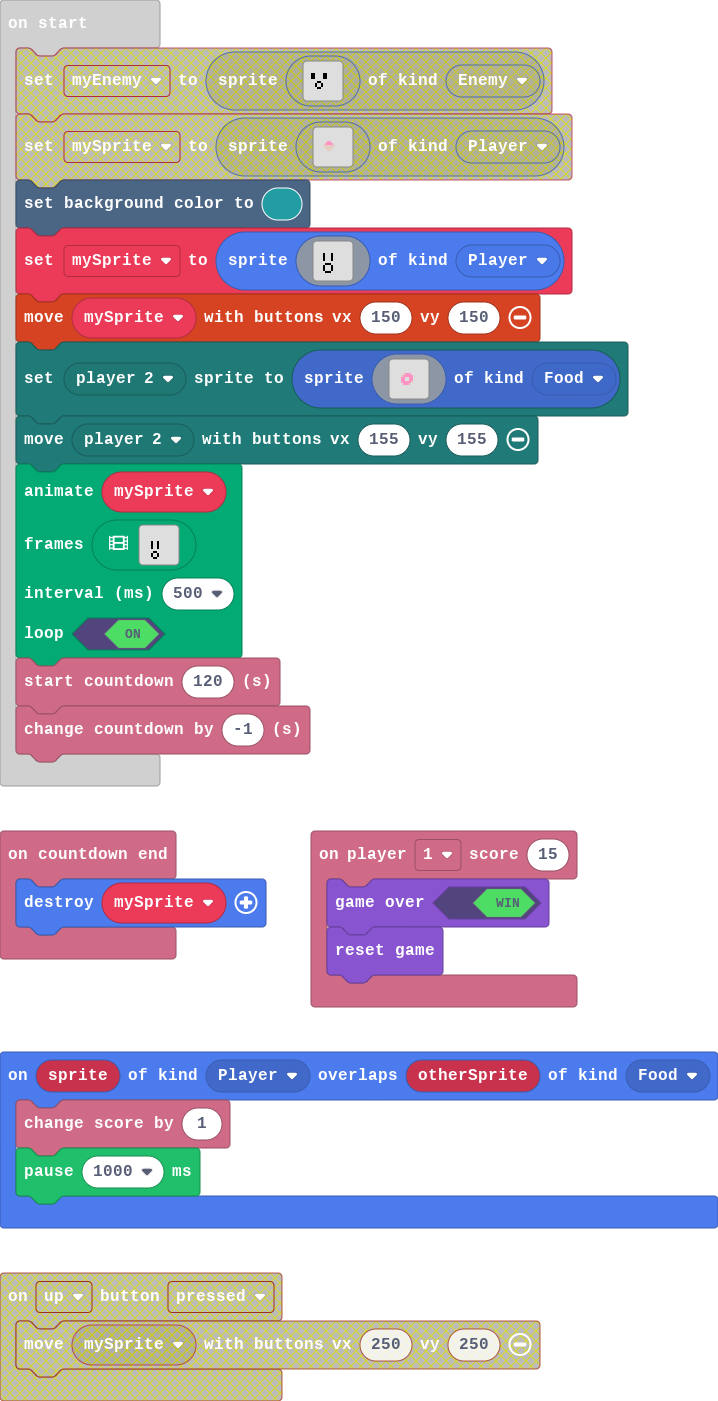
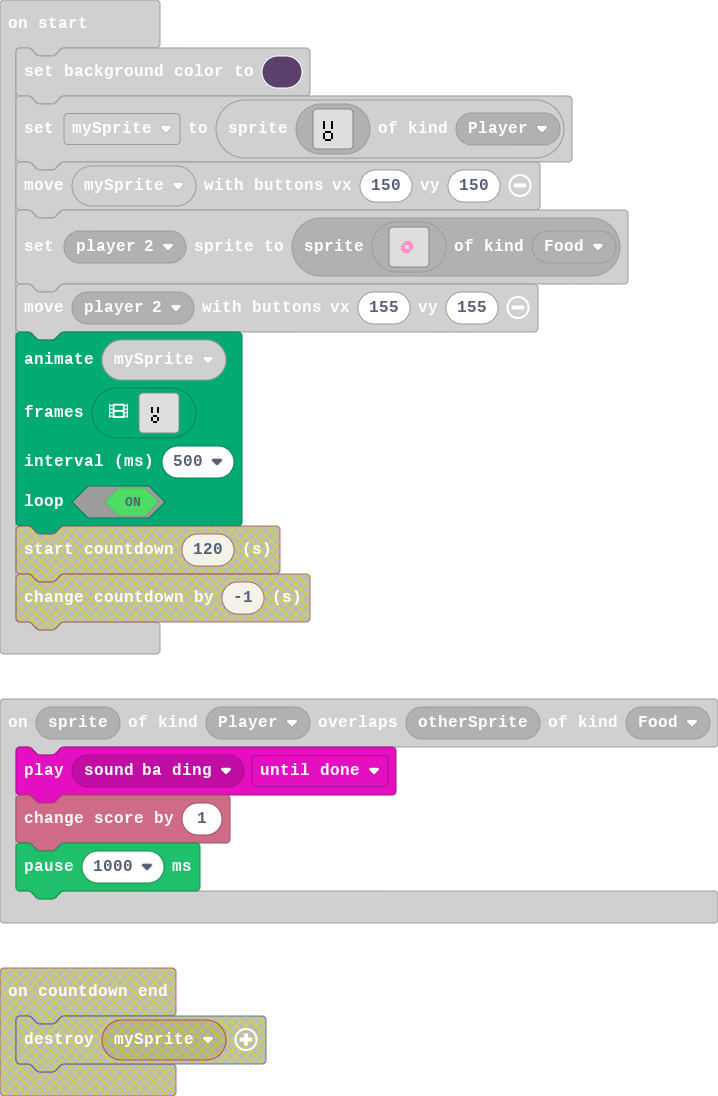
Update main.blocks, main.ts

diff --git a/main.ts b/main.ts
@@ -2,16 +2,13 @@ info.player1.onScore(15, function () {
     game.gameOver(true)
     game.reset()
 })
-info.onCountdownEnd(function () {
-    sprites.destroy(mySprite)
-})
 sprites.onOverlap(SpriteKind.Player, SpriteKind.Food, function (sprite, otherSprite) {
+    music.play(music.melodyPlayable(music.baDing), music.PlaybackMode.UntilDone)
     info.changeScoreBy(1)
     pause(1000)
 })
-let mySprite: Sprite = null
-scene.setBackgroundColor(6)
-mySprite = sprites.create(img`
+scene.setBackgroundColor(12)
+let mySprite = sprites.create(img`
     . . . . . . . . . . . . . . . . 
     . . . . . . . . . . . . . . . . 
     . . . . . . . . . . . . . . . . 
@@ -57,29 +54,12 @@ mySprite,
     . . . . . . . . . . . . . . . . 
     . . . . . . . . . . . . . . . . 
     . . . . . . . . . . . . . . . . 
-    . . . . . . . . . . . . . . . . 
-    . . . . f . . f . . . . . . . . 
-    . . . . f . . f . . . . . . . . 
-    . . . . f . . f . . . . . . . . 
-    . . . . f . . f . . . . . . . . 
-    . . . . . . . . . . . . . . . . 
-    . . . . . f f . . . . . . . . . 
-    . . . . f . . f . . . . . . . . 
-    . . . . f . . f . . . . . . . . 
-    . . . . . f f . . . . . . . . . 
-    . . . . . . . . . . . . . . . . 
-    `,img`
-    . . . . . . . . . . . . . . . . 
-    . . . . . . . . . . . . . . . . 
-    . . . . . . . . . . . . . . . . 
-    . . . . . . . . . . . . . . . . 
-    . . . . . . . . . . . . . . . . 
-    . . . . f . . f . . . . . . . . 
     . . . . f . . f . . . . . . . . 
     . . . . f . . f . . . . . . . . 
     . . . . f . . f . . . . . . . . 
     . . . . . . . . . . . . . . . . 
     . . . . . f f . . . . . . . . . 
+    . . . . f . . f . . . . . . . . 
     . . . . f . . f . . . . . . . . 
     . . . . . f f . . . . . . . . . 
     . . . . . . . . . . . . . . . . 
@@ -90,13 +70,13 @@ mySprite,
     . . . . . . . . . . . . . . . . 
     . . . . . . . . . . . . . . . . 
     . . . . . . . . . . . . . . . . 
-    . . . f . . . f . . . . . . . . 
-    . . . f . . . f . . . . . . . . 
-    . . . f . . . f . . . . . . . . 
-    . . . f . . . f . . . . . . . . 
     . . . . . . . . . . . . . . . . 
-    . . . f f f f f . . . . . . . . 
     . . . . . . . . . . . . . . . . 
+    . . . . . f . . f . . . . . . . 
+    . . . . . f . . f . . . . . . . 
+    . . . . . f . . f . . . . . . . 
+    . . . . . . . . . . . . . . . . 
+    . . . . . f f f f . . . . . . . 
     . . . . . . . . . . . . . . . . 
     . . . . . . . . . . . . . . . . 
     . . . . . . . . . . . . . . . . 
@@ -106,5 +86,3 @@ mySprite,
 500,
 true
 )
-info.startCountdown(120)
-info.changeCountdownBy(-1)
